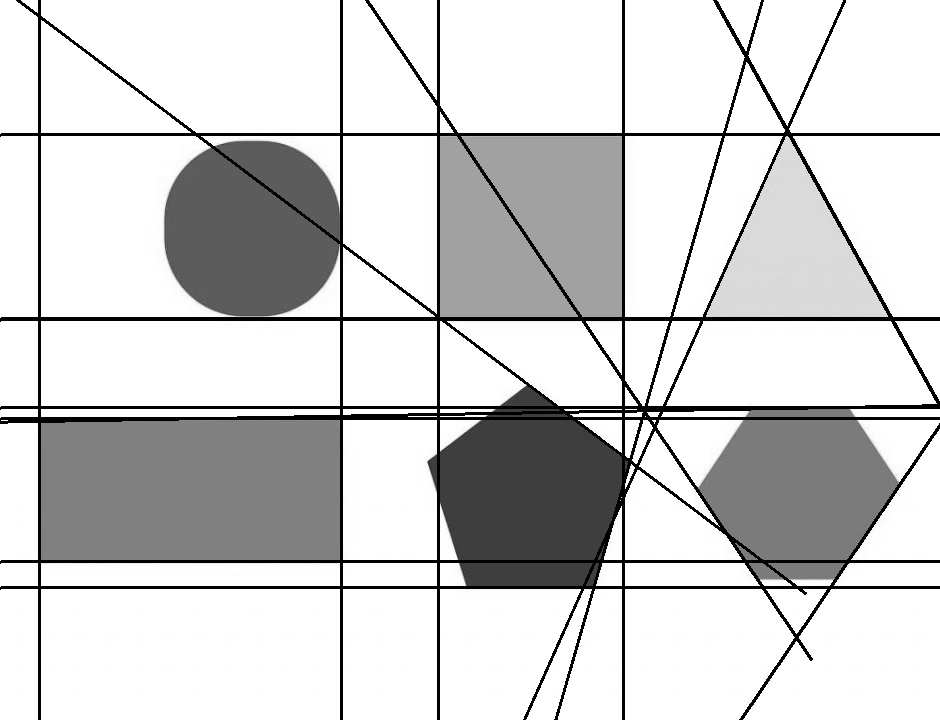
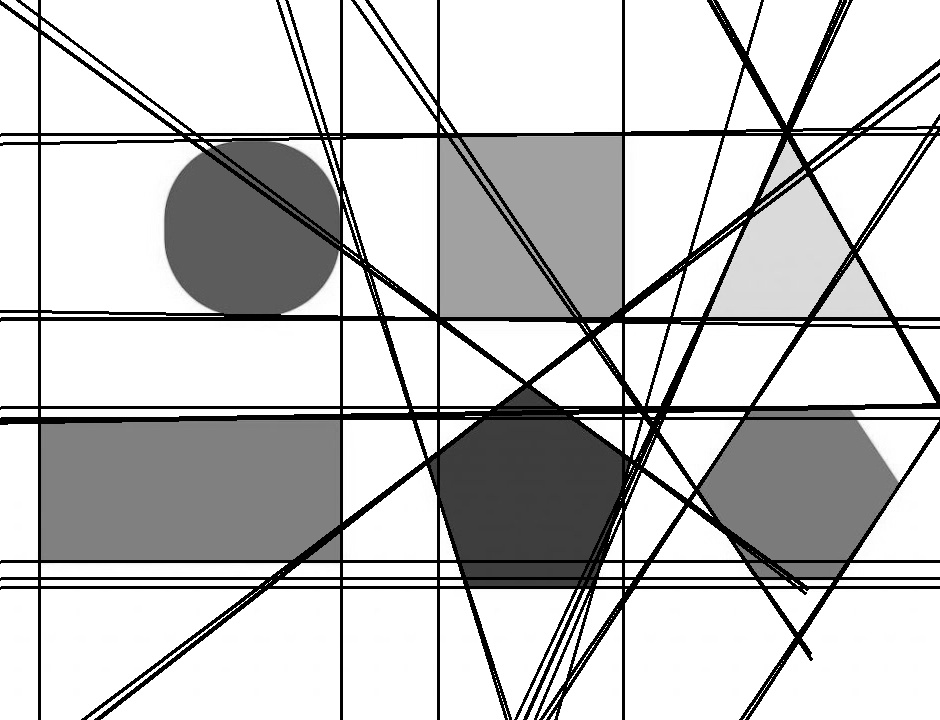
fix

diff --git a/main.py b/main.py
@@ -16,7 +16,7 @@ show_hough_line(imgs_final, accumulator, thetas, rhos)
 test = np.uint8(imgs_final)
  
 
-lines = my_hough(imgs_final, rho=1, theta=np.pi/180, threshold=100)
+lines = my_hough(imgs_final, rho=1, theta=np.pi/180, threshold=75)
 for line in lines:
     rho, theta = line[0]
     a = np.cos(theta)
